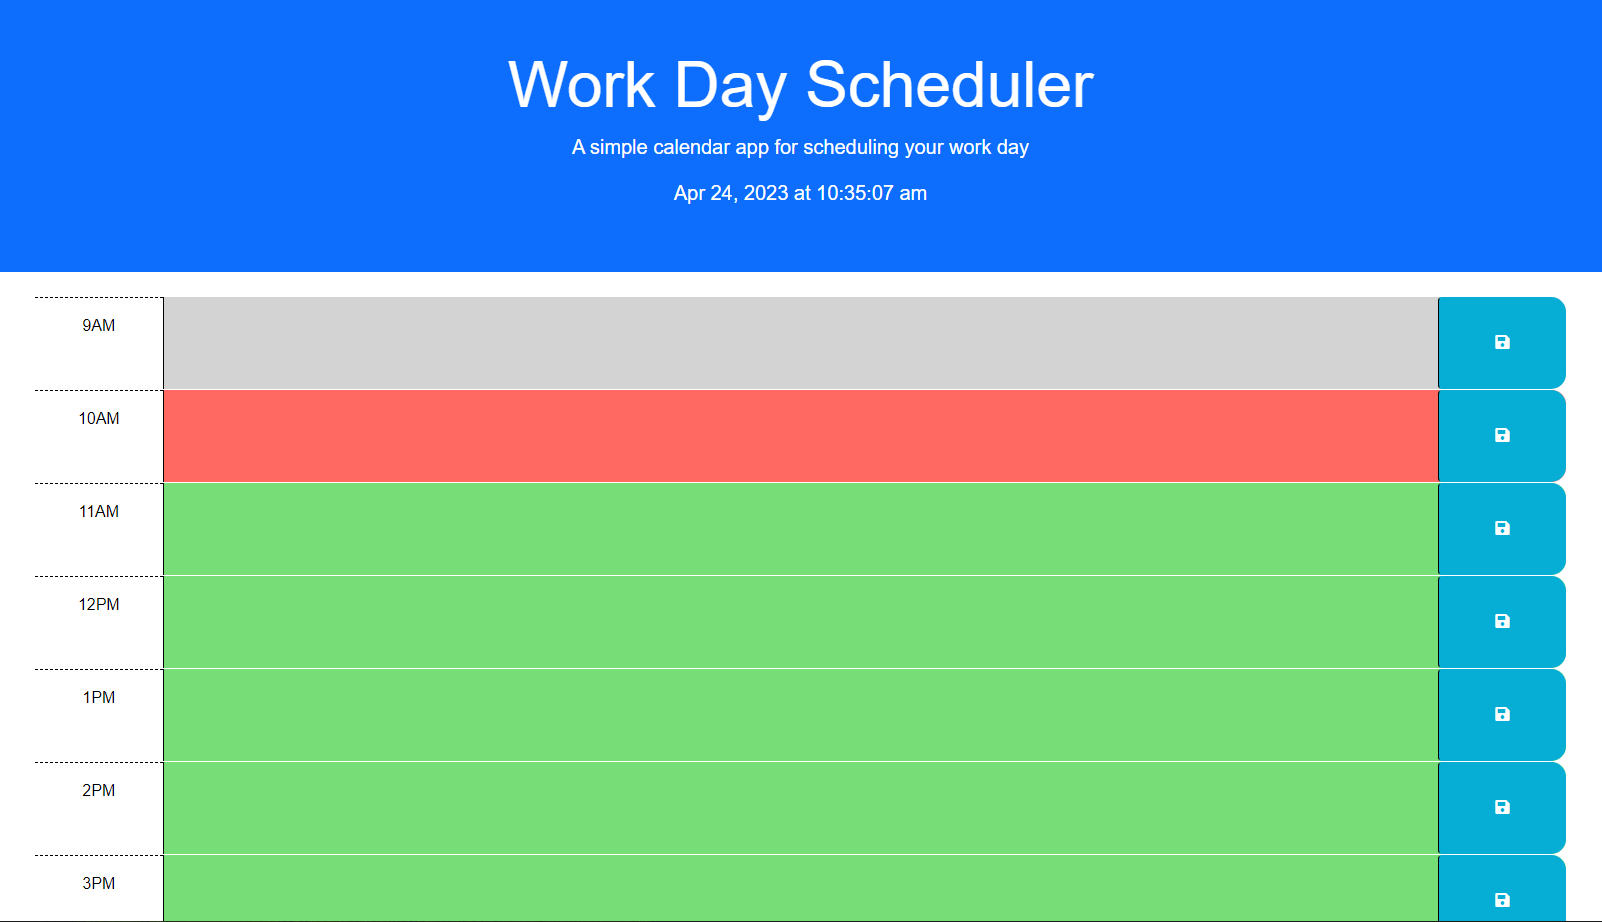
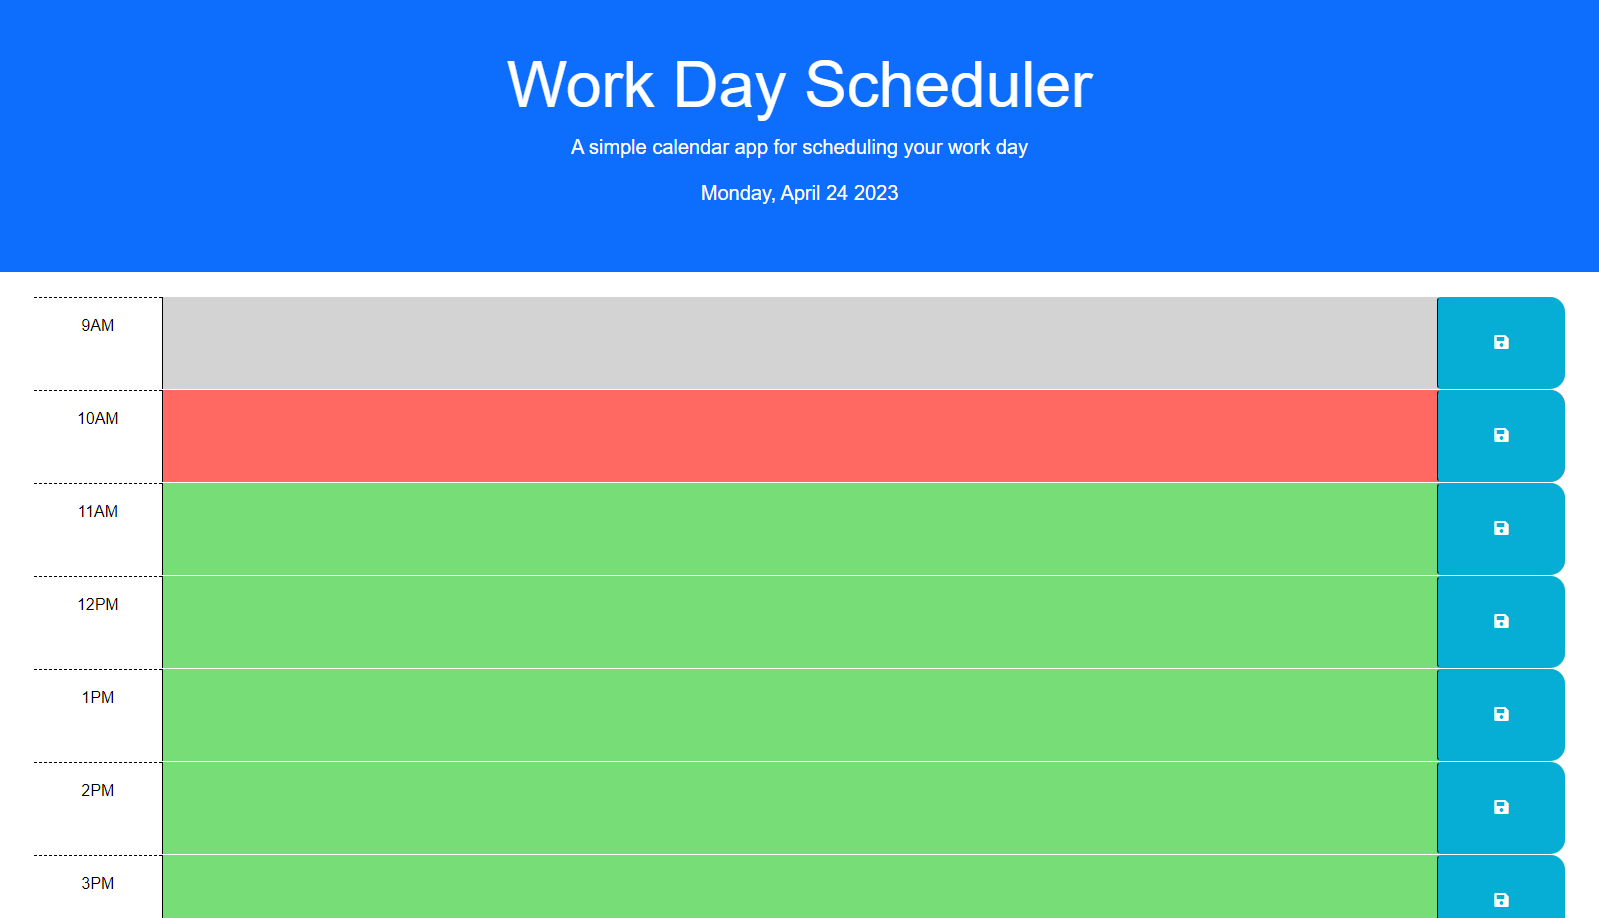
fixing header date

diff --git a/Assets/js/script.js b/Assets/js/script.js
@@ -10,7 +10,7 @@ var currentTime;
 
 // this function displays timer located in the header using day.js
 function displayTime() {
-  var rightNow = dayjs().format("MMM DD, YYYY [at] hh:mm:ss a");
+  var rightNow = dayjs().format("dddd, MMMM D YYYY");
   timeLocation.text(rightNow);
 }
 
